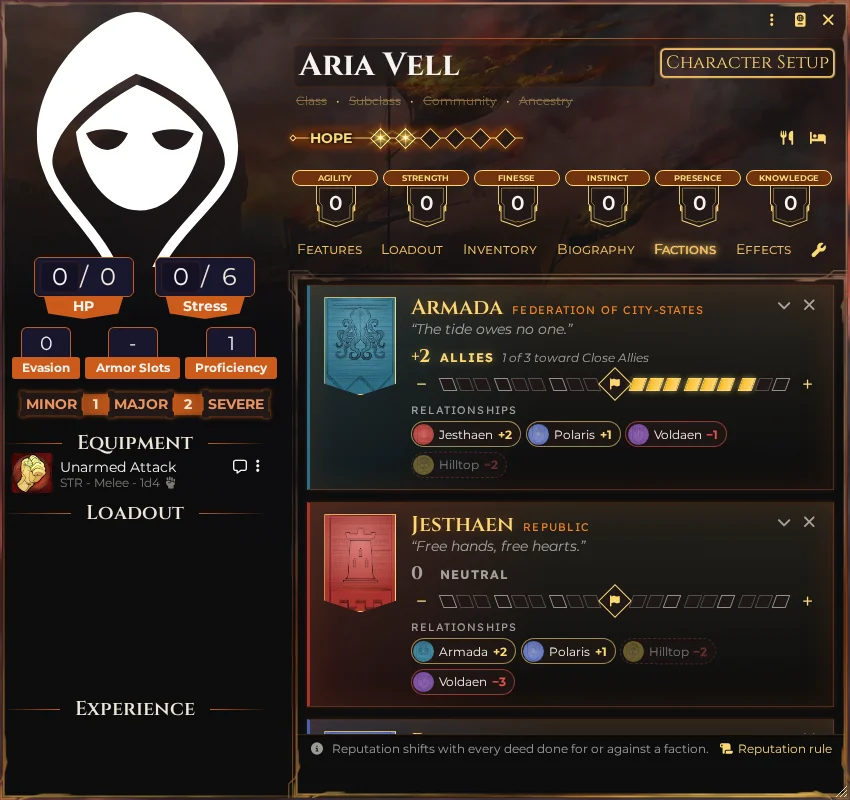
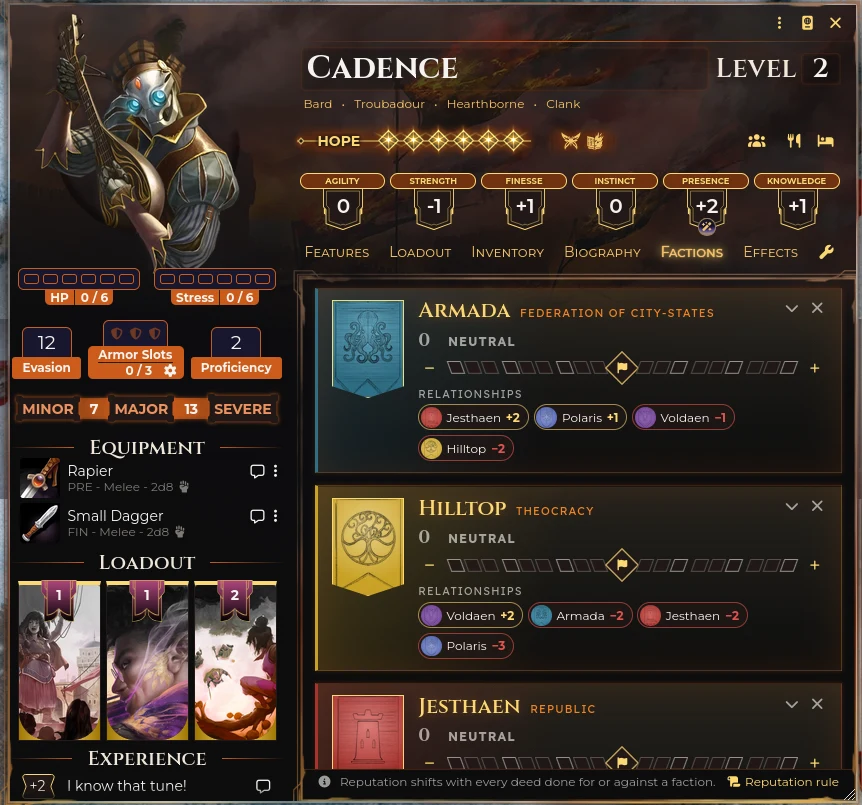
Use a real character for the README's Factions tab screenshot

diff --git a/README.md b/README.md
@@ -2,7 +2,7 @@
 
 A Foundry VTT module for running the **Five Banners Burning** campaign frame in [Daggerheart](https://www.daggerheart.com). The GM creates the factions of the campaign and their relationships, and hands each faction to the characters as they meet it. Every character sheet gets a **Factions** tab that shows the factions the character knows, how those factions feel about each other and, with the homebrew reputation rule, where the character stands with each of them. The module also puts every sheet and token ring in the Five Banners Burning style of the Daggerheart Core Rulebook module.
 
-![The Factions tab on a character sheet](docs/screenshots/01-factions-tab.webp)
+![The Factions tab on a character sheet, showing the five nations of Althas with reputation tracks and relationships](docs/screenshots/01-factions-tab.webp)
 
 ## Requirements
 
